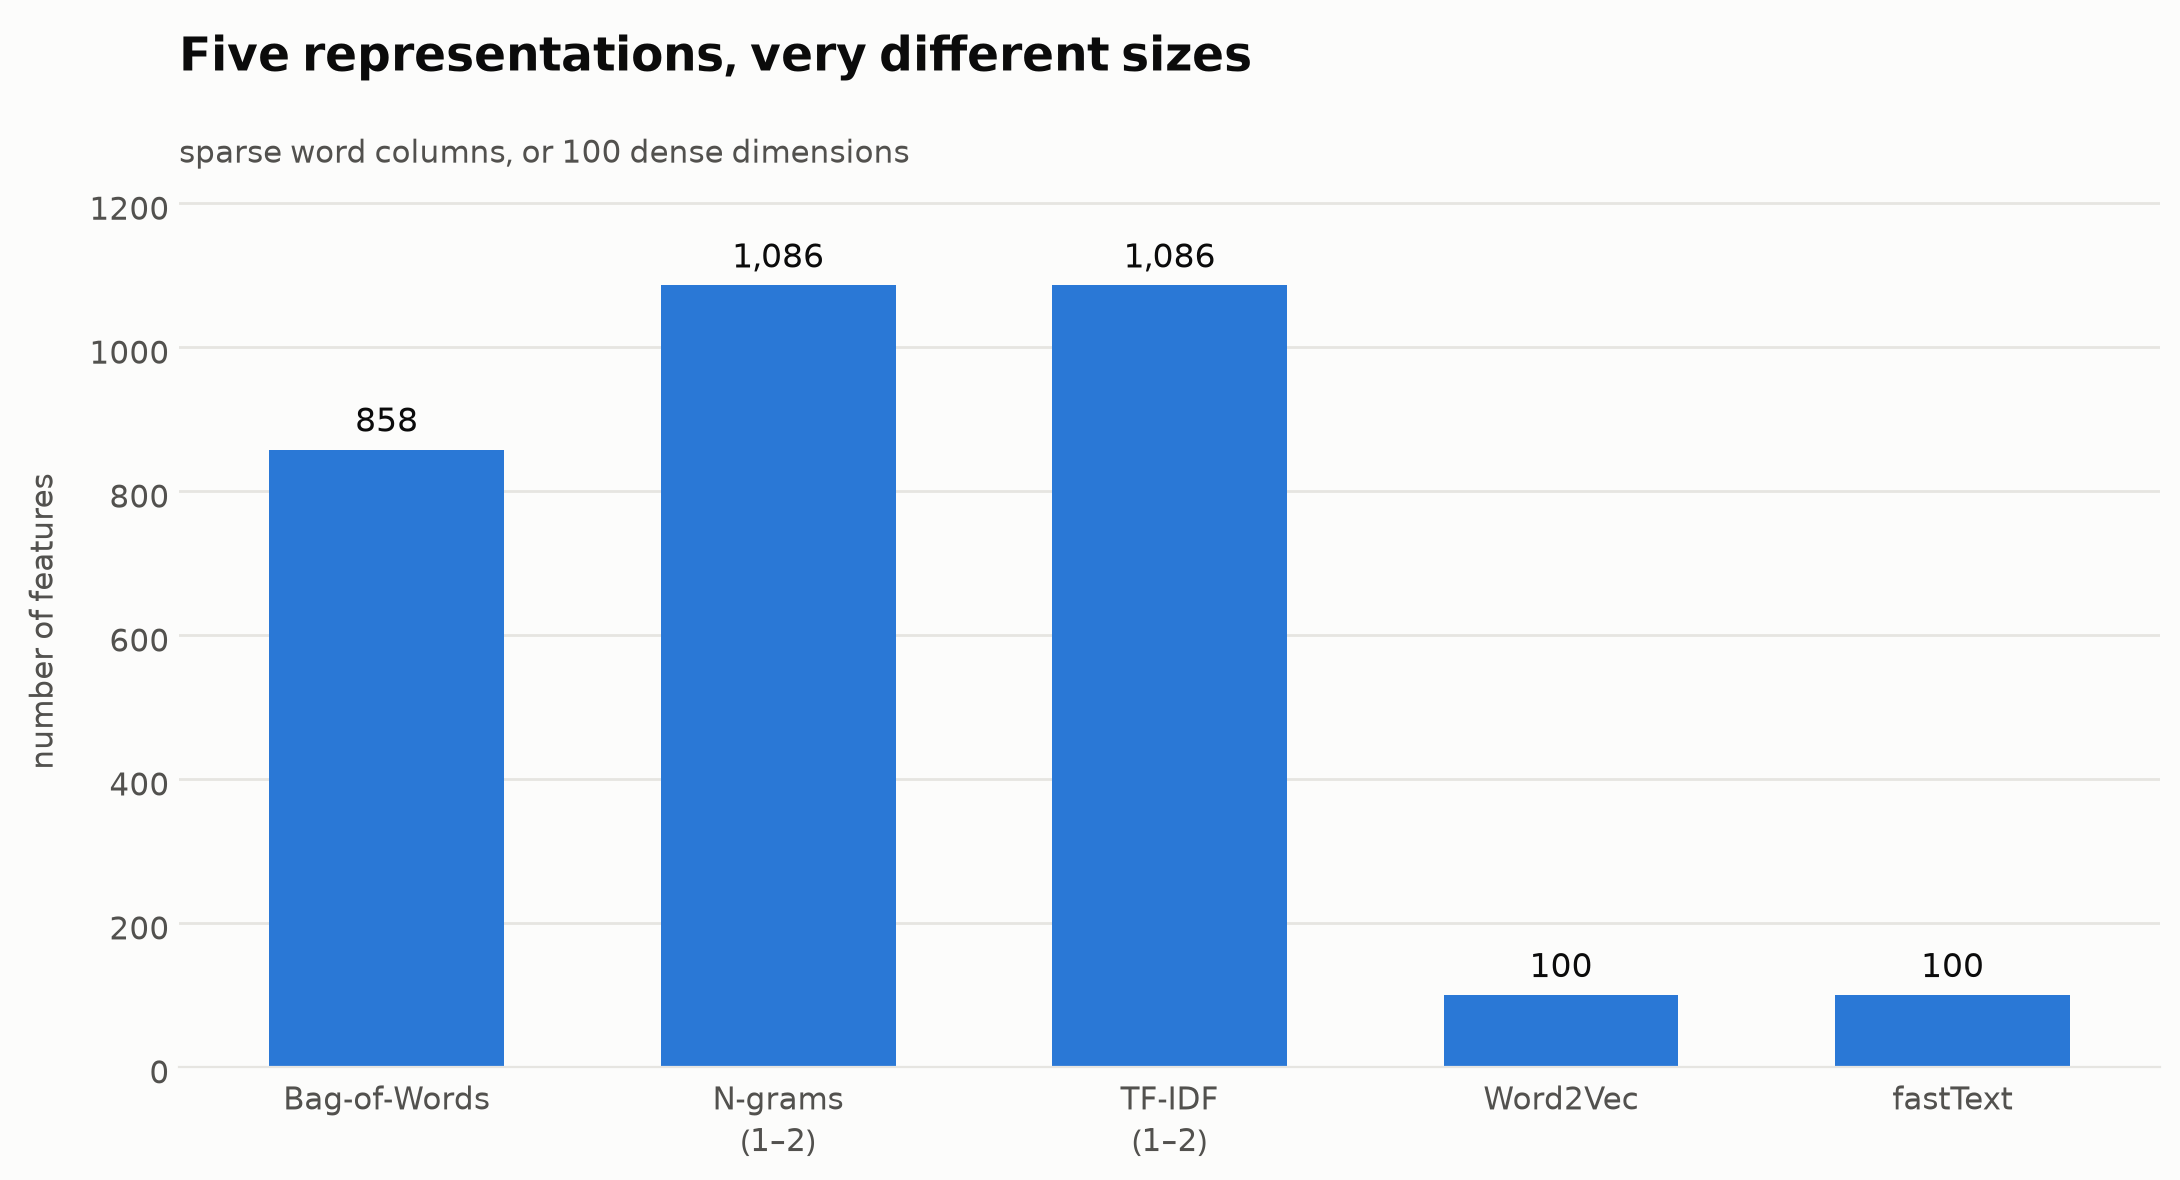
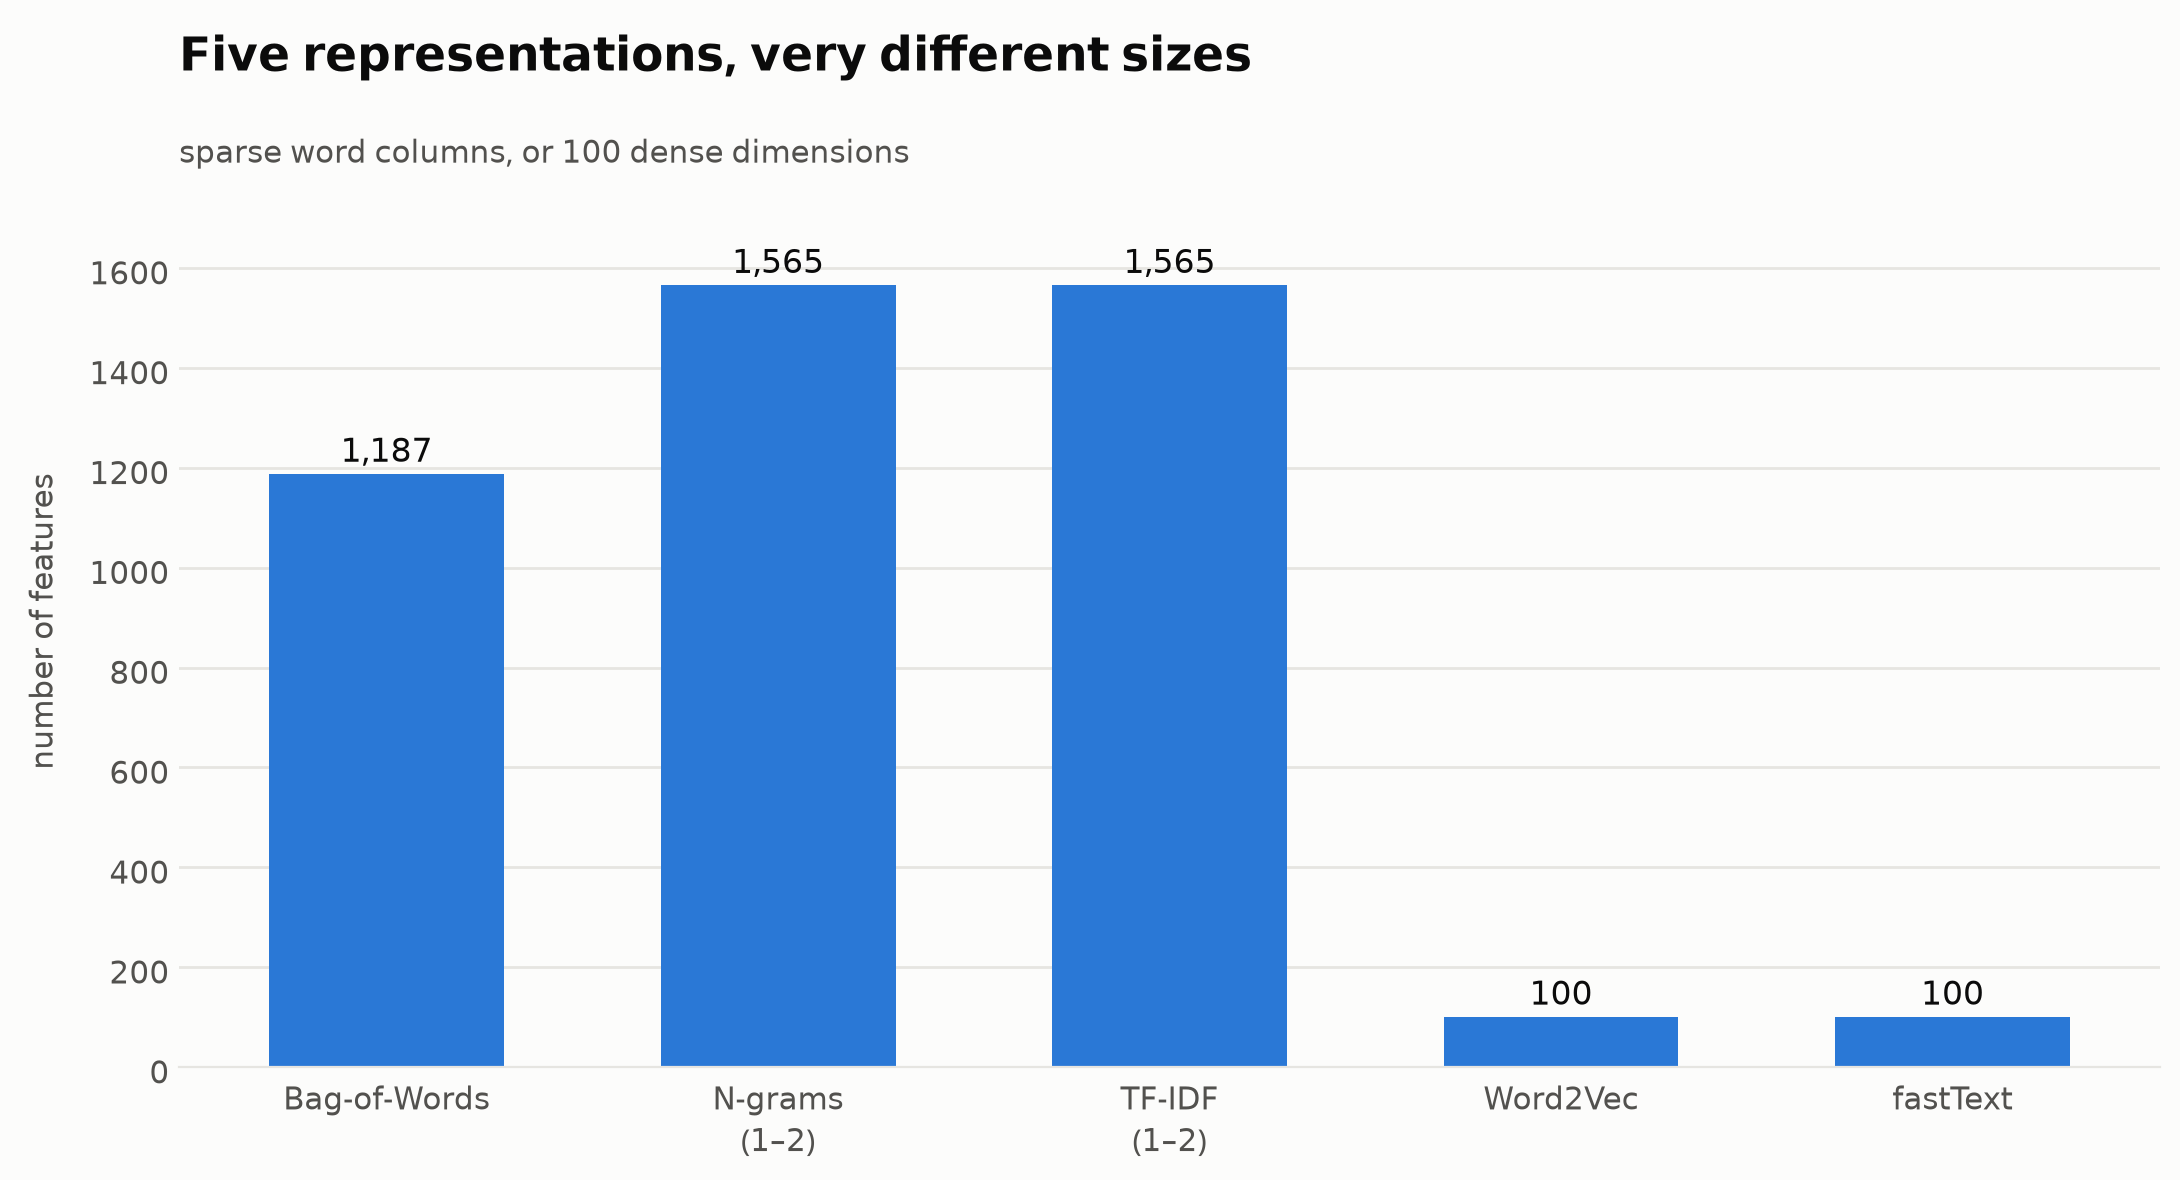
Expand Person 4 slides and derive the slide 2 numbers
Adds worked Bag-of-Words and n-gram tables in Khmer showing why 'មិន ល្អ' is
invisible to word counts but not to bigrams, plus a short expansion for each of
the five methods to reach for if asked.

Documents where the log-odds on the chart come from: the formula, a conversion
from log-odds to 'times more likely', and the six real bars with their raw
counts, so the presenter can say 'ten times negative, never positive' rather
than pointing at a bar height. Also answers why proportions rather than counts,
why add-one smoothing, and why the minimum-4 threshold.

make_figures.py now reads the sentence count and feature counts from the data
instead of hardcoding them - the subtitle still claimed 272 training sentences
after the third pair took it to 408.

diff --git a/scripts/make_figures.py b/scripts/make_figures.py
@@ -95,7 +95,7 @@ def fig_sentiment_words():
                   fontsize=11, color=INK_2, labelpad=12)
     ax.set_title("Which Khmer words carry sentiment",
                  fontsize=17, color=INK, pad=38, loc="left", fontweight="bold")
-    ax.text(0, 1.012, "computed on the 272 training sentences",
+    ax.text(0, 1.012, f"computed on the {len(train)} training sentences",
             transform=ax.transAxes, fontsize=11, color=INK_2)
     ax.xaxis.grid(True, color=GRID, linewidth=1)
     ax.set_axisbelow(True)
@@ -114,8 +114,15 @@ def fig_sentiment_words():
 
 
 def fig_feature_counts():
+    """Counts are read from the saved feature files so the figure cannot drift
+    out of step with the data the way a hardcoded list does."""
+    import numpy as _np
     names = ["Bag-of-Words", "N-grams\n(1–2)", "TF-IDF\n(1–2)", "Word2Vec", "fastText"]
-    counts = [858, 1086, 1086, 100, 100]
+    counts = []
+    for key in ("bow", "ngram", "tfidf", "word2vec", "fasttext"):
+        z = _np.load(os.path.join(ROOT, "data", "features", f"{key}.npz"), allow_pickle=True)
+        counts.append(int(z["train_shape"][1]) if str(z["kind"]) == "sparse"
+                      else int(z["train"].shape[1]))
 
     fig, ax = plt.subplots(figsize=(11, 6), dpi=200)
     fig.patch.set_facecolor(SURFACE)

diff --git a/docs/PERSON4_TEXT_REPRESENTATION.md b/docs/PERSON4_TEXT_REPRESENTATION.md
@@ -29,12 +29,12 @@ Two slides, script, and answers. ~3 minutes.
 > turning our cleaned sentences into numbers — five different ways, because it
 > isn't obvious in advance which works best.
 >
-> **Bag-of-Words** counts words. One column per word, 1,187 of them. It throws away
-> word order, which matters here: មិន ល្អ — 'not good' — and ល្អ — 'good' — both
-> contain ល្អ, so Bag-of-Words can't separate them.
+> **Bag-of-Words** counts words. One column per word, 1,187 of them. It throws
+> away word order, which matters here: មិន ល្អ — 'not good' — and ល្អ — 'good' —
+> both contain ល្អ, so Bag-of-Words can't separate them.
 >
-> **N-grams** fix that by adding word pairs, so 'មិន ល្អ' becomes its own feature.
-> That takes us to 1,565 features.
+> **N-grams** fix that by adding word pairs, so 'មិន ល្អ' becomes its own
+> feature. That takes us to 1,565 features.
 >
 > **TF-IDF** keeps the same features but weights instead of counting. Words in
 > nearly every sentence get pushed down, distinctive ones lifted.
@@ -56,6 +56,45 @@ Two slides, script, and answers. ~3 minutes.
 
 ---
 
+### If you have time, or get asked, expand any of these
+
+**Bag-of-Words, worked through.** Three toy sentences, the whole idea:
+
+```
+                    ល្អ   មិន   ណាស់
+"ល្អ ណាស់"  good    1     0      1
+"មិន ល្អ"   not     1     1      0
+```
+
+Both rows contain ល្អ. To Bag-of-Words they look similar, even though one is
+positive and one is negative. That is the failure n-grams exist to fix.
+
+**N-grams.** Adding the pair `មិន ល្អ` as its own column separates them:
+
+```
+                    ល្អ   មិន   មិន ល្អ
+"ល្អ ណាស់"           1     0       0
+"មិន ល្អ"            1     1       1
+```
+
+378 bigrams survived our `min_df=2` filter, on top of the 1,187 single words.
+
+**TF-IDF, in one sentence.** Term Frequency × Inverse Document Frequency —
+how often a word appears *here*, divided by how many sentences contain it at
+all. A word in every sentence scores near zero; a word in three sentences scores
+high. Raw counts say the most common word is the most important; TF-IDF says the
+opposite.
+
+**Word2Vec.** Slide a five-word window along the text. Given a word, predict its
+neighbours. Words that keep similar company end up with similar vectors. 100
+numbers per word, then averaged to 100 numbers per sentence.
+
+**fastText.** Same, but each word is also split into 3-to-6 character chunks. A
+word's vector is the sum of its chunks, so an unseen word still gets one built
+from pieces it shares with words that were seen.
+
+---
+
 ## SLIDE 2 — What the features contain
 
 **Title:** Do the features carry sentiment?
@@ -72,21 +111,99 @@ Two slides, script, and answers. ~3 minutes.
 >
 > And unlike a lot of these analyses, these are **real sentiment words**.
 >
-> On the positive side: ប្រឹងប្រែង — to strive, to make an effort. ប្រសើរឡើង —
-> to improve. ធានា — to guarantee. ទទួលបាន — to gain, to receive.
+> On the positive side: ប្រកបដោយ — 'endowed with', which prefixes praise.
+> អប់រំ and ការអប់រំ — 'to educate' and 'education'. ជួយ — 'to help'.
 >
-> On the negative side: ប៉ះពាល់ — to affect adversely. ប្រឈម — to face, to
-> confront. ពេក — excessively. ចោល — to discard.
+> On the negative side: បញ្ហា — 'problem'. ប៉ះពាល់ — 'to affect adversely'.
+> ករណី — 'case', as in an incident. ពេក — 'excessively'.
 >
 > [PAUSE]
 >
-> And the strongest frequent negative signal is **មិន — 'not' — appearing 90
-> times in training, 64 of them in negative sentences.** That is direct evidence for Person 3's decision to
-> keep negation out of the stopword list. If it had been treated as a stopword,
-> we would have deleted our single best negative feature.
+> These are not topic words that happen to correlate. They are the words a Khmer
+> speaker would point at if you asked which parts of the sentence carry the
+> feeling. That is the evidence the features work.
+>
+> And separately — មិន, 'not', appears **90 times in training, 64 of them in
+> negative sentences.** That is direct evidence for Person 3's decision to keep
+> negation out of the stopword list. Treating it as a stopword would have deleted
+> our single best negative feature.
 >
 > So the features do carry sentiment. Whether the models can use it on only 408
 > training sentences is Person 5 and 6's slide."
+
+---
+
+## ⭐ Where slide 2's numbers come from
+
+The `+2.2`, `−2.4` beside each bar are **log-odds**. This is the follow-up most
+likely to be asked, so know it cold.
+
+### What log-odds means
+
+> "It's how many times more likely that word is to appear in one class than the
+> other. Zero means equally common in both. The further from zero, the more
+> lopsided."
+
+Because it's a logarithm, small numbers mean big differences:
+
+| log-odds | means | |
+|---|---|---|
+| 0 | 1× | equally common |
+| 1 | ~3× | more likely |
+| 2 | ~7× | more likely |
+| 2.4 | ~11× | more likely |
+
+### The actual bars, with their raw counts
+
+| Word | Meaning | On the chart | In words | pos | neg |
+|---|---|---|---|---|---|
+| ប្រកបដោយ | endowed with | **+2.19** | ~9× more likely positive | 8 | **0** |
+| អប់រំ | to educate | +2.08 | ~8× more likely positive | 7 | 0 |
+| ការអប់រំ | education | +1.94 | ~7× more likely positive | 6 | 0 |
+| បញ្ហា | problem | **−2.40** | ~11× more likely negative | **0** | 10 |
+| ប៉ះពាល់ | to affect adversely | −2.20 | ~9× more likely negative | 0 | 8 |
+| ករណី | case, incident | −1.95 | ~7× more likely negative | 0 | 6 |
+
+> "So បញ្ហា — 'problem' — appears ten times in negative sentences and never once
+> in a positive one. ប្រកបដោយ is the mirror image: eight times positive, never
+> negative."
+
+**Quoting the raw counts alongside the log-odds is what makes it land.** The bar
+height is abstract; "ten times versus zero" is not.
+
+### The formula
+
+```
+                  share of that word among POSITIVE sentences
+   log-odds = log ──────────────────────────────────────────
+                  share of that word among NEGATIVE sentences
+```
+
+Computed on the **408 training sentences only** — using test to decide what to
+say about the features would be leakage through the back door.
+
+### Three details you will be asked about
+
+**"Why proportions, not raw counts?"**
+> "The classes aren't the same size — 2,143 word occurrences in positive
+> sentences against 2,130 in negative. Close here, but if one class had twice the
+> text every word would look twice as common in it. Log-odds compares shares, so
+> class size cancels out."
+
+**"How is it a ratio if one count is zero?"**
+> "Add-one smoothing. We add 1 to every count before dividing, otherwise a word
+> appearing zero times in one class gives division by zero. It's why បញ្ហា is
+> −2.40 and not infinity."
+
+**"Why only some words?"**
+> "Minimum 4 occurrences overall. 317 of the 1,187 words meet that. Without the
+> threshold the top of the list is just rare words that happened to land in one
+> class once."
+
+**"Why a log at all?"**
+> "It makes the scale symmetric. Twice as likely each way becomes +0.7 and −0.7 —
+> equal distance from zero. A plain ratio gives 2 and 0.5, which doesn't plot
+> symmetrically."
 
 ---
 
@@ -100,6 +217,15 @@ Two slides, script, and answers. ~3 minutes.
 | **22.8%** | out-of-vocabulary rate | word occurrences in test absent from training |
 | **2,883** | training vocabulary | distinct words the embeddings learned |
 | **408 / 72 / 120** | train / val / test | stratified split of 600 |
+| **317** | words on the slide-2 shortlist | those appearing ≥4 times overall |
+
+**On the 100:** be honest that it's a choice, not a calculation.
+
+> "That's a hyperparameter — `vector_size=100`. A standard starting point for a
+> corpus this small. Larger vectors need more data to fill meaningfully; with 408
+> sentences, going higher would mostly add noise."
+
+Inventing a derivation for it invites a question you can't survive.
 
 ---
 
@@ -115,7 +241,9 @@ X_test  = vec.transform(test_text)
 ```
 
 > "`fit_transform` on train is where the vocabulary is learned. On val and test
-> we only call `transform`. That is the whole no-leakage argument."
+> we only call `transform`. A word that only appears in test is simply ignored,
+> because the vectoriser was never told it exists. That is the whole no-leakage
+> argument."
 
 **One Khmer-specific detail worth mentioning:** `token_pattern=r"\S+"`.
 scikit-learn's default pattern assumes English word characters and would drop
@@ -131,7 +259,9 @@ model.wv.get_mean_vector(tokens, pre_normalize=True, post_normalize=True)
 ```
 
 The model gives a vector per word; the classifier needs one per sentence, so the
-word vectors are averaged and normalised.
+word vectors are averaged. `pre_normalize` scales each word to length 1 first so
+one extreme word can't dominate; `post_normalize` scales the finished sentence
+vector so long and short sentences stay comparable.
 
 ---
 
@@ -196,3 +326,10 @@ training sentences across three classes buys you.
 > "scikit-learn's default tokenizer pattern is built for English word characters
 > and drops Khmer script entirely. Our text is pre-segmented with spaces between
 > tokens, so we split on whitespace."
+
+**"Can you show where those numbers come from?"**
+> "Yes — one command regenerates the whole analysis."
+
+```bash
+./.venv/bin/python scripts/inspect_representations.py
+```
